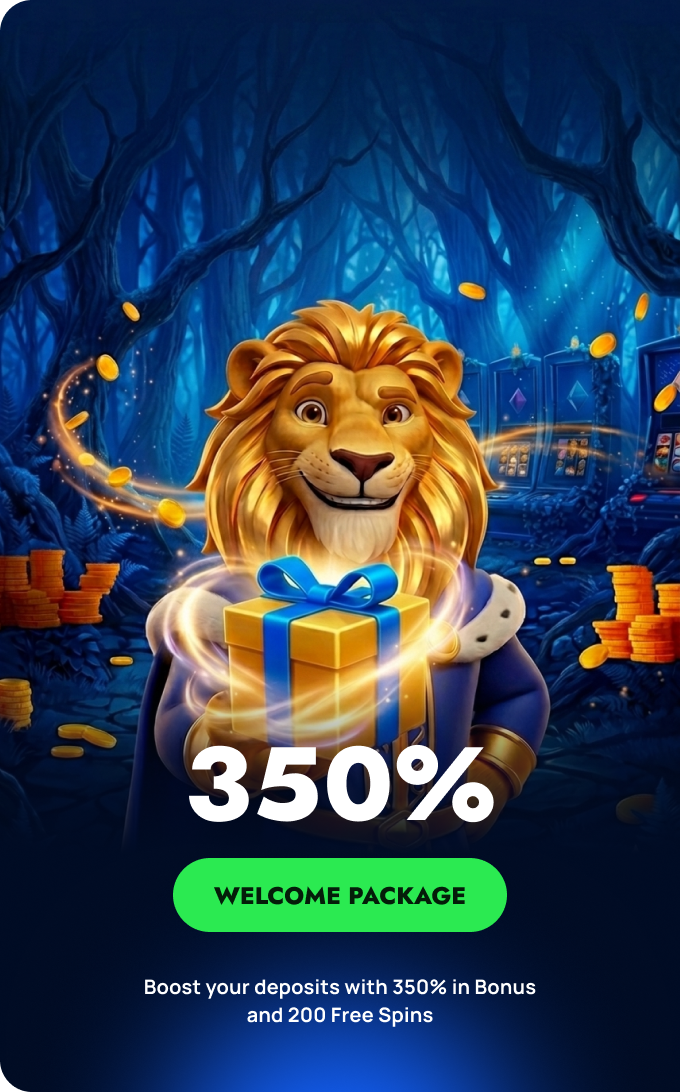
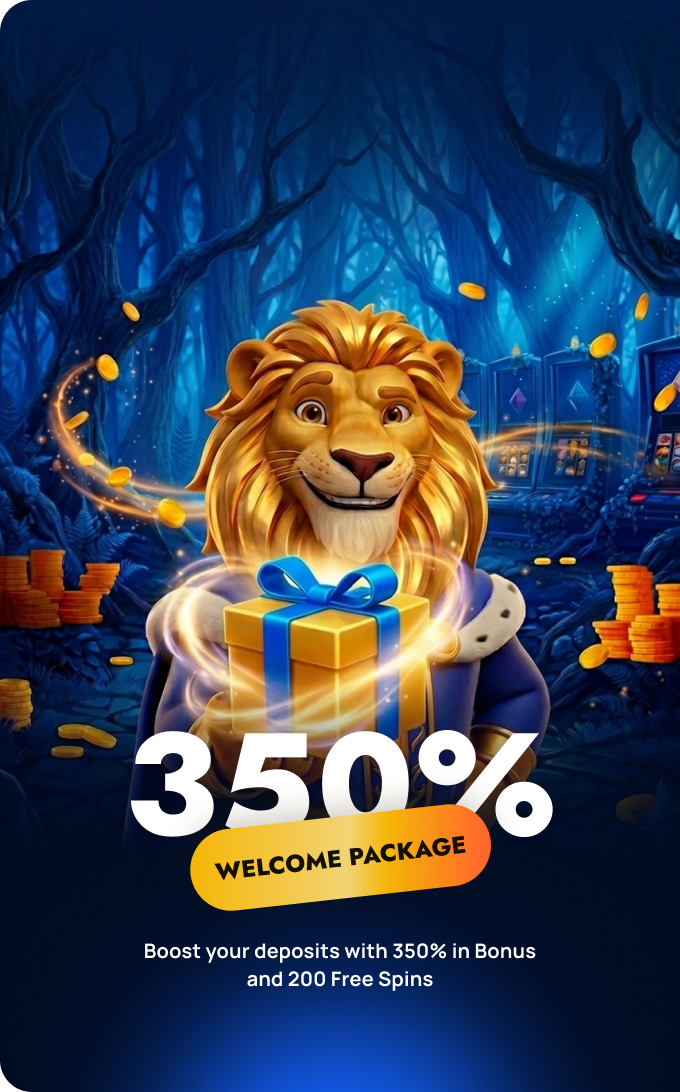
..

Changed region(s): [[0.1853, 0.6538, 0.8338, 0.9341]]

diff --git a/src/components/Sidebar.tsx b/src/components/Sidebar.tsx
@@ -1,6 +1,6 @@
 'use client';
 
-import { useState } from 'react';
+import { useState, useEffect } from 'react';
 import { useRouter } from 'next/navigation';
 import { useAppSelector, useAppDispatch } from '@/redux/store';
 import { toggleSidebar, openAllGamesModal } from '@/redux/features/uiSlice';
@@ -11,6 +11,25 @@ export default function Sidebar() {
   const sidebarOpen = useAppSelector((state) => state.ui.sidebarOpen);
   const isAuthenticated = useAppSelector((state) => state.auth.isAuthenticated);
   const [casinoExpanded, setCasinoExpanded] = useState(true);
+
+  // Lock body scroll when sidebar is open on mobile
+  useEffect(() => {
+    // Only apply overflow lock if the screen is mobile size (lg is 1024px)
+    const handleResize = () => {
+      if (window.innerWidth < 1024 && sidebarOpen) {
+        document.body.style.overflow = 'hidden';
+      } else {
+        document.body.style.overflow = '';
+      }
+    };
+
+    handleResize();
+    window.addEventListener('resize', handleResize);
+    return () => {
+      window.removeEventListener('resize', handleResize);
+      document.body.style.overflow = '';
+    };
+  }, [sidebarOpen]);
 
   return (
     <>

diff --git a/src/components/MobileAuthPage.tsx b/src/components/MobileAuthPage.tsx
@@ -6,11 +6,11 @@ import { useAppDispatch } from '@/redux/store';
 import { loginSuccess } from '@/redux/features/authSlice';
 
 const COUNTRY_CODES = [
-  { code: '+380', flag: '🇺🇦', name: 'Ukraine' },
-  { code: '+1', flag: '🇺🇸', name: 'United States' },
-  { code: '+44', flag: '🇬🇧', name: 'United Kingdom' },
-  { code: '+49', flag: '🇩🇪', name: 'Germany' },
-  { code: '+91', flag: '🇮🇳', name: 'India' },
+  { code: '+380', flag: '🇺🇦', name: 'Ukraine', image: '/images/ukraine.svg' },
+  { code: '+1', flag: '🇺🇸', name: 'United States', image: '/images/america.svg' },
+  { code: '+44', flag: '🇬🇧', name: 'United Kingdom', image: '/images/uk.svg' },
+  { code: '+49', flag: '🇩🇪', name: 'Germany', image: '/images/germany.svg' },
+  { code: '+91', flag: '🇮🇳', name: 'India', image: '/images/india.svg' },
 ];
 
 const inputStyle: React.CSSProperties = {
@@ -282,7 +282,7 @@ export default function MobileAuthPage({ defaultTab }: { defaultTab: 'join' | 'l
 
             {/* Phone row (join only) */}
             {tab === 'join' && (
-              <div style={{ display: 'flex', flexDirection: 'row', alignItems: 'flex-start', padding: 0, gap: '8px', width: '100%', height: '50px', position: 'relative', boxSizing: 'border-box' }}>
+              <div style={{ display: 'flex', flexDirection: 'row', alignItems: 'flex-start', padding: 0, gap: '8px', width: '100%', height: '50px', position: 'relative', zIndex: 30, boxSizing: 'border-box' }}>
 
                 {/* Country picker: 121×50 */}
                 <div style={{ position: 'relative', flexShrink: 0 }}>
@@ -291,7 +291,9 @@ export default function MobileAuthPage({ defaultTab }: { defaultTab: 'join' | 'l
                     onClick={() => setDropOpen(!dropOpen)}
                     style={{ display: 'flex', flexDirection: 'row', alignItems: 'center', padding: '10px 16px', gap: '10px', width: '121px', height: '50px', background: '#112F82', borderRadius: '8px', border: 'none', cursor: 'pointer', boxSizing: 'border-box' }}
                   >
-                    <span style={{ fontSize: '20px', lineHeight: '20px', width: '20px', height: '20px', display: 'flex', alignItems: 'center', flexShrink: 0 }}>{country.flag}</span>
+                    <div style={{ width: '20px', height: '20px', display: 'flex', alignItems: 'center', flexShrink: 0 }}>
+                      <img src={country.image} alt={country.name} width="20" height="20" style={{ width: '20px', height: '20px', objectFit: 'cover', borderRadius: '50%' }} />
+                    </div>
                     <span style={{ fontFamily: "'Manrope', sans-serif", fontWeight: 600, fontSize: '14px', lineHeight: '19px', letterSpacing: '0.02em', color: '#FFFFFF', width: '35px', flexShrink: 0 }}>{country.code}</span>
                     <div style={{ display: 'flex', flexDirection: 'column', justifyContent: 'center', alignItems: 'center', width: '14px', height: '14px', flexShrink: 0 }}>
                       <svg width="7" height="4" viewBox="0 0 7 4" fill="none" style={{ transform: dropOpen ? 'rotate(180deg)' : 'none', transition: '.2s' }}>
@@ -303,11 +305,11 @@ export default function MobileAuthPage({ defaultTab }: { defaultTab: 'join' | 'l
                   {dropOpen && (
                     <>
                       <div onClick={() => setDropOpen(false)} style={{ position: 'fixed', inset: 0, zIndex: 20 }} />
-                      <div style={{ position: 'absolute', left: 0, bottom: '54px', width: '176px', background: '#0C1F56', borderRadius: '8px', border: '1px solid rgba(255,255,255,0.1)', padding: '6px', zIndex: 30, display: 'flex', flexDirection: 'column', gap: '2px' }}>
+                      <div style={{ position: 'absolute', left: 0, top: '54px', width: '176px', background: '#0C1F56', borderRadius: '8px', border: '1px solid rgba(255,255,255,0.1)', padding: '6px', zIndex: 30, display: 'flex', flexDirection: 'column', gap: '2px' }}>
                         {COUNTRY_CODES.map(c => (
                           <button key={c.code} type="button" onClick={() => { setCountry(c); setDropOpen(false); }}
                             style={{ display: 'flex', alignItems: 'center', gap: '8px', padding: '8px', background: 'transparent', border: 'none', borderRadius: '6px', cursor: 'pointer', color: '#fff', fontSize: '12px', fontFamily: "'Manrope', sans-serif" }}>
-                            <span style={{ fontSize: '16px' }}>{c.flag}</span>
+                            <img src={c.image} alt={c.name} width="16" height="16" style={{ width: '16px', height: '16px', objectFit: 'cover', borderRadius: '50%', flexShrink: 0 }} />
                             <span style={{ fontWeight: 700 }}>{c.code}</span>
                             <span style={{ color: '#A5B8EF' }}>{c.name}</span>
                           </button>

diff --git a/src/components/AuthModal.tsx b/src/components/AuthModal.tsx
@@ -6,11 +6,11 @@ import { closeAuthModal, openAuthModal } from '@/redux/features/uiSlice';
 import { loginSuccess } from '@/redux/features/authSlice';
 
 const COUNTRY_CODES = [
-  { code: '+380', flag: '🇺🇦', name: 'Ukraine', image: null },
+  { code: '+380', flag: '🇺🇦', name: 'Ukraine', image: '/images/ukraine.svg' },
   { code: '+1', flag: '🇺🇸', name: 'United States', image: '/images/america.svg' },
-  { code: '+44', flag: '🇬🇧', name: 'United Kingdom', image: null },
-  { code: '+49', flag: '🇩🇪', name: 'Germany', image: null },
-  { code: '+91', flag: '🇮🇳', name: 'India', image: null },
+  { code: '+44', flag: '🇬🇧', name: 'United Kingdom', image: '/images/uk.svg' },
+  { code: '+49', flag: '🇩🇪', name: 'Germany', image: '/images/germany.svg' },
+  { code: '+91', flag: '🇮🇳', name: 'India', image: '/images/india.svg' },
 ];
 
 function FlagIcon({ c, size = 20 }: { c: typeof COUNTRY_CODES[0]; size?: number }) {
@@ -113,7 +113,7 @@ export default function AuthModal() {
             </svg>
           </button>
 
-          <form onSubmit={onSubmit} className="flex flex-col items-start gap-4 w-full z-9">
+          <form onSubmit={onSubmit} className="relative z-20 flex flex-col items-start gap-4 w-full">
             {/* Logo */}
             <div className="flex items-center justify-center w-full">
               <div className="flex items-center gap-1.5">
@@ -172,7 +172,7 @@ export default function AuthModal() {
 
               {/* Phone (join only) */}
               {type === 'join' && (
-                <div className="relative flex flex-row gap-2 w-full">
+                <div className="relative z-30 flex flex-row gap-2 w-full">
                   <div className="relative flex-shrink-0">
                     <button type="button" onClick={() => setDropOpen(!dropOpen)}
                       className="flex flex-row items-center px-4 gap-2 h-10 bg-[#112F82] rounded-lg border-0 cursor-pointer box-border min-w-[100px]">
@@ -185,7 +185,7 @@ export default function AuthModal() {
                     {dropOpen && (
                       <>
                         <div onClick={() => setDropOpen(false)} className="fixed inset-0 z-20" />
-                        <div className="absolute left-0 bottom-11 w-44 bg-[#0C1F56] rounded-lg border border-white/10 p-1.5 z-30 flex flex-col gap-0.5">
+                        <div className="absolute left-0 top-11 w-44 bg-[#0C1F56] rounded-lg border border-white/10 p-1.5 z-30 flex flex-col gap-0.5">
                           {COUNTRY_CODES.map(c => (
                             <button key={c.code} type="button" onClick={() => { setCountry(c); setDropOpen(false); }}
                               className="flex items-center gap-2 px-2 py-1.5 bg-transparent border-0 rounded cursor-pointer text-white hover:bg-white/5 text-xs font-sans">

diff --git a/src/app/referrals/page.tsx b/src/app/referrals/page.tsx
@@ -204,7 +204,7 @@ export default function ReferralsPage() {
                   </div>
 
                   {/* Result Pill */}
-                  <div className="w-full bg-[#112F82] rounded-[8px] p-[10px_16px] h-[60px] flex items-center justify-between border border-white/5 shrink-0 box-border">
+                  <div className="w-full bg-[#112F82] rounded-[8px] p-[10px_16px] h-[60px] flex items-center justify-center gap-4 border border-white/5 shrink-0 box-border">
                     <span className="font-manrope font-bold text-[14px] leading-[19px] text-[#BBCAF3]">
                       Your monthly earnings:
                     </span>
@@ -434,7 +434,7 @@ export default function ReferralsPage() {
                   </div>
                 </div>
 
-                <div className="w-full bg-[#112F82] rounded-[8px] py-[10px_16px] h-[60px] flex items-center justify-between border border-white/5">
+                <div className="w-full bg-[#112F82] rounded-[8px] py-[10px_16px] h-[60px] flex items-center justify-center gap-4 border border-white/5">
                   <span className="font-manrope font-bold text-[14px] text-[#BBCAF3]">
                     Your monthly earnings:
                   </span>
@@ -447,19 +447,19 @@ export default function ReferralsPage() {
                   * Calculations are based on average player activity and may vary in individual cases
                 </p>
 
-                <form onSubmit={handleSendInvite} className="w-full flex flex-col gap-2 mt-2">
+                <form onSubmit={handleSendInvite} className="w-full flex flex-row gap-2 mt-2">
                   <input 
                     type="email"
                     required
                     placeholder="Enter email address"
                     value={emailAddress}
                     onChange={(e) => setEmailAddress(e.target.value)}
-                    className="w-full h-[40px] bg-[#112F82] rounded-[8px] px-4 border border-white/5 text-white font-manrope font-semibold text-[14px] placeholder-[#BBCAF3] focus:outline-none focus:ring-1 focus:ring-[#1463FF]"
+                    className="flex-1 h-[40px] bg-[#112F82] rounded-[8px] px-4 border border-white/5 text-white font-manrope font-semibold text-[14px] placeholder-[#BBCAF3] focus:outline-none focus:ring-1 focus:ring-[#1463FF]"
                   />
                   <button
                     type="submit"
                     disabled={inviteStatus === 'sending'}
-                    className="w-full h-[40px] bg-[#FFC83D] hover:bg-[#ffd362] active:scale-[0.98] disabled:opacity-50 text-[#1A1404] font-manrope font-bold text-[14px] rounded-[8px] flex items-center justify-center transition-all cursor-pointer border-none"
+                    className="w-[122px] h-[40px] shrink-0 bg-[#FFC83D] hover:bg-[#ffd362] active:scale-[0.98] disabled:opacity-50 text-[#1A1404] font-manrope font-bold text-[14px] rounded-[8px] flex items-center justify-center transition-all cursor-pointer border-none"
                   >
                     {inviteStatus === 'sending' ? 'Sending...' : 'Send Invite'}
                   </button>

diff --git a/src/components/AllGamesModal.tsx b/src/components/AllGamesModal.tsx
@@ -726,7 +726,15 @@ export default function AllGamesModal({ isOpen, onClose }: AllGamesModalProps) {
                     height: '524px',
                   }}
                 >
-
+                  {/* Category Header */}
+                  <div style={{ display: 'flex', flexDirection: 'row', alignItems: 'center', padding: '0px', gap: '8px', height: '29px', flexShrink: 0 }}>
+                    <div style={{ display: 'flex', alignItems: 'center', justifyContent: 'center', width: '20px', height: '20px' }}>
+                      {renderCategoryIcon(activeCategory, true)}
+                    </div>
+                    <span style={{ fontFamily: "'Jost', sans-serif", fontWeight: 800, fontSize: '20px', lineHeight: '29px', letterSpacing: '0.01em', textTransform: 'uppercase', color: '#FFFFFF' }}>
+                      {activeCategory}
+                    </span>
+                  </div>
 
                   <div
                     style={{

diff --git a/src/components/Footer.tsx b/src/components/Footer.tsx
@@ -2,7 +2,11 @@
 
 import React, { useState } from 'react';
 
-export default function Footer() {
+interface FooterProps {
+  className?: string;
+}
+
+export default function Footer({ className }: FooterProps = {}) {
   const [isSeoExpanded, setIsSeoExpanded] = useState(false);
   const [openAccordions, setOpenAccordions] = useState<{ [key: string]: boolean }>({
     'slot-games': false,
@@ -48,14 +52,14 @@ export default function Footer() {
   ];
 
   return (
-    <div className="w-full flex flex-col gap-[40px] md:gap-[100px] mt-[40px] md:mt-[100px]">
+    <div className={className || "w-full flex flex-col gap-[40px] md:gap-[100px] mt-[40px] md:mt-[100px]"}>
       
       {/* Child 1: SEO Text Area */}
       <div className="flex flex-col items-start p-0 w-full max-w-[1136px] mx-auto select-none px-4 md:px-0">
         <div className="flex flex-col items-center p-0 w-full isolate relative">
           <div
             className={`w-full max-w-[800px] flex flex-col gap-[24px] md:gap-[32px] overflow-hidden transition-all duration-500 ease-in-out ${
-              isSeoExpanded ? 'max-h-[2500px]' : 'max-h-[300px] md:max-h-[580px]'
+              isSeoExpanded ? 'max-h-[2500px]' : 'max-h-[420px] md:max-h-[660px]'
             }`}
           >
             {/* Play the Best Crypto Casino Games... */}

diff --git a/src/app/game/[id]/page.tsx b/src/app/game/[id]/page.tsx
@@ -88,7 +88,7 @@ export default function GamePage() {
         <div className="lg:hidden"><Sidebar /></div>
 
         {/* Main content */}
-        <div className="w-full min-w-0 flex-1 flex flex-col gap-[40px] pt-4">
+        <div className="w-full min-w-0 flex-1 flex flex-col gap-[60px] pt-4">
 
           {/* Top content wrapper containing back button and game container */}
           <div className="flex flex-col gap-[40px] w-full max-w-[1136px]">
@@ -281,7 +281,7 @@ export default function GamePage() {
           </div>
 
           {/* Reusable responsive Footer component */}
-          <Footer />
+          <Footer className="w-full flex flex-col gap-[40px] md:gap-[100px] mt-0 md:mt-[10px]" />
 
         </div>
       </div>

diff --git a/src/app/globals.css b/src/app/globals.css
@@ -30,8 +30,8 @@ body {
 ::-webkit-scrollbar-thumb { background: #112F82; border-radius: 4px; }
 ::-webkit-scrollbar-thumb:hover { background: #1463FF; }
 
-.scrollbar-none::-webkit-scrollbar { display: none; }
-.scrollbar-none { -ms-overflow-style: none; scrollbar-width: none; }
+.scrollbar-none::-webkit-scrollbar { display: none !important; }
+.scrollbar-none { -ms-overflow-style: none !important; scrollbar-width: none !important; }
 
 input:-webkit-autofill,
 input:-webkit-autofill:hover,